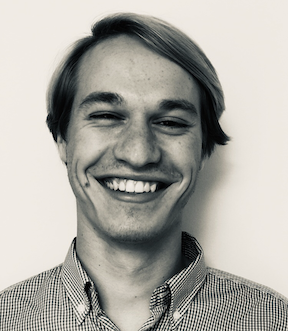
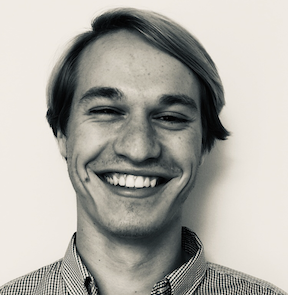
Crop photo, change CV link href
The CV links were looking in the wrong directory beforehand. Also, the photo
was not square.

diff --git a/cv/index.html b/cv/index.html
@@ -4,6 +4,6 @@ title: CV of William Rice
 ---
 
 	<div class="cv">
-		<a href="files/William_Rice_CV.pdf" class="download" title="Download CV as PDF">Download CV</a>
-		<embed src="files/William_Rice_CV.pdf#toolbar=0" type="application/pdf" width="600px" height="100%"/>
+		<a href="/files/William_Rice_CV.pdf" class="download" title="Download CV as PDF">Download CV</a>
+		<embed src="/files/William_Rice_CV.pdf#toolbar=0" type="application/pdf" width="600px" height="100%"/>
 	</div>
